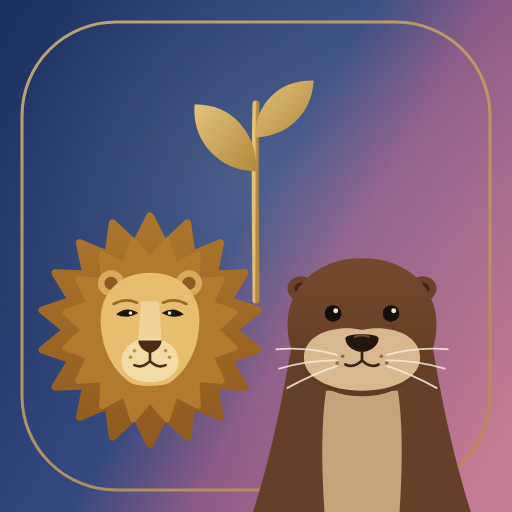
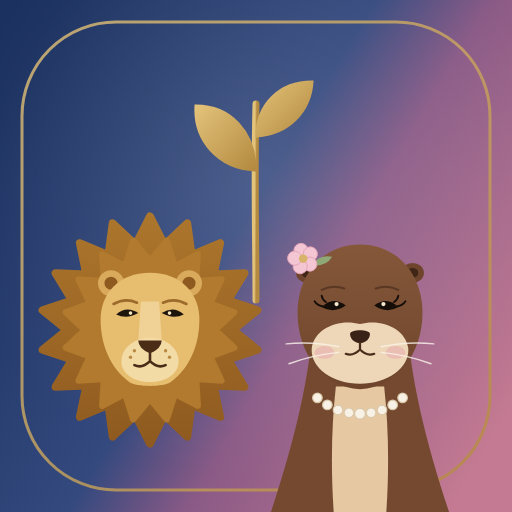
Loulou la loutre plus élégante et féminine
Visage ovale et fin, yeux en amande avec cils, petite truffe, cou élancé,
fleur rose à l'oreille et collier de perles (emblème et icône).

Claude-Session: https://claude.ai/code/session_01Fn7en9yxJ9HS3qn4jvDQep

Changed region(s): [[0.5, 0.4688, 0.9375, 1.0]]

diff --git a/sw.js b/sw.js
@@ -1,5 +1,5 @@
 /* Cache hors-ligne : l'application fonctionne sans connexion une fois ouverte. */
-const CACHE = "grandir-v5";
+const CACHE = "grandir-v6";
 const FICHIERS = ["./", "index.html", "css/style.css", "js/activities.js", "js/reperes.js", "js/famille-data.js", "js/app.js", "manifest.webmanifest", "icon.svg", "icon-192.png", "icon-512.png", "apple-touch-icon.png", "img/lion.svg", "img/loutre.svg"];
 
 self.addEventListener("install", e => {
